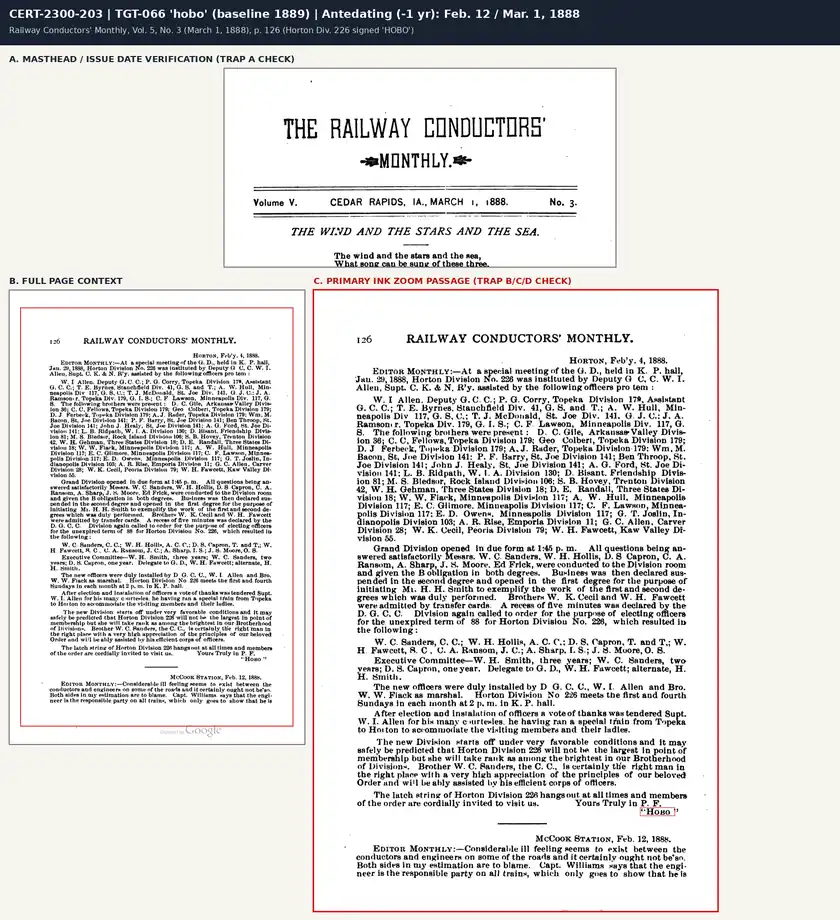
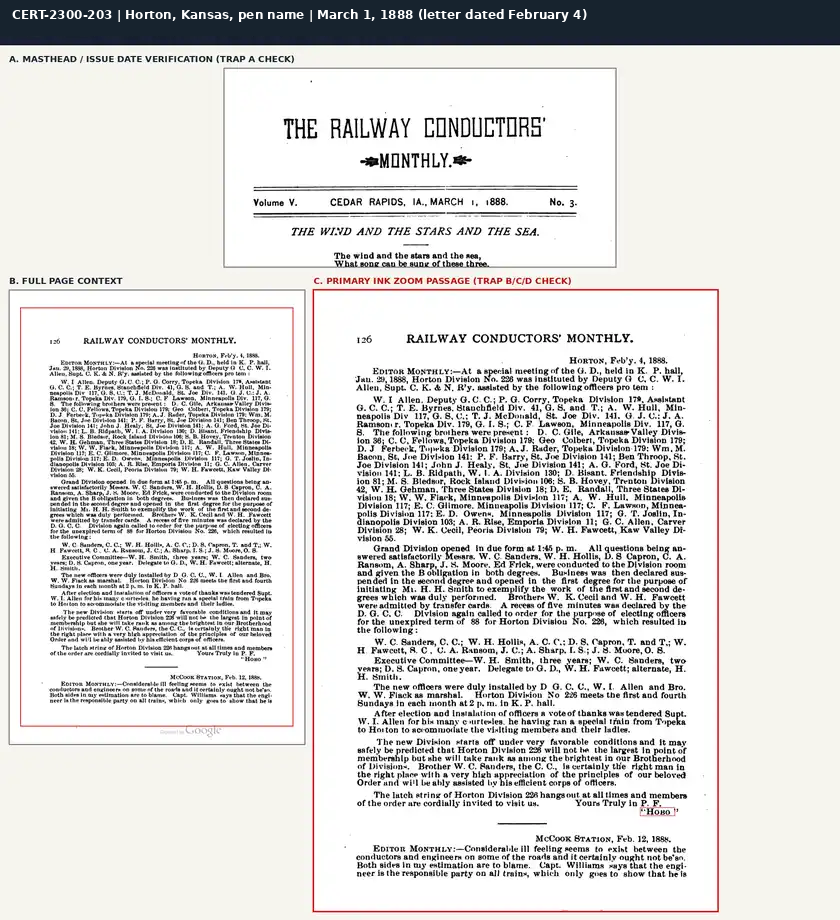
Qualify early hobo and shebang evidence and verify figurative chase citations

Changed region(s): [[0.0, 0.0, 0.7119, 0.0609]]

diff --git a/src/content/cases/whole-shebang.md b/src/content/cases/whole-shebang.md
@@ -1,5 +1,5 @@
 ---
-title: 'From "The Chebang and Restaurant" (1852) to "The Whole Shebang" (1863–1868): Antebellum Saloon Roots, Union Camp Transmission, and Phrasal Generalization'
+title: 'From "The Chebang and Restaurant" (1852) to "The Whole Shebang" (1863–1868): Antebellum Venue Evidence, Union Camp Usage, and Phrasal Generalization'
 subtitle: 'Archival chronology, 5th Pennsylvania Reserves prosopography, Anglo-Irish shebeen contact remodeling, and evaluated etymological pathways for shebang and the whole shebang (Case 2000).'
 headword: 'whole shebang'
 relatedForms:
@@ -40,13 +40,13 @@ earliestNewDiscovery:
   form: 'Chebang'
   dateDisplay: '17 Dec 1852'
   year: 1852
-  source: 'The Kentucky Whig (Mount Sterling, KY), Vol. 5, No. 41, p. 3, col. 1'
+  source: 'The Kentucky Whig (Mount Sterling, KY), Vol. 5, No. 41, p. 3, col. 1 (venue designation)'
   location: 'Mount Sterling, Montgomery County, Kentucky'
-  antedatingSummary: '14 yrs, 1 mo earlier than OED 1867; 1 yr, 7 mos earlier than July 1854 prior art'
+  antedatingSummary: '1852 venue designation; no same-sense antedating'
   archiveUrl: 'https://archive.org/details/xt7ffb4whv97/page/n2/mode/1up'
   certId: 'CERT-2000-102'
 establishedFacts:
-- 'W. F. Blackburn''s oyster house in The Kentucky Whig (17 Dec 1852, CERT-2000-102) prints "the Chebang and Restaurant," proving the tavern sense preceded Civil War huts by nearly nine years.'
+- 'In 1852 The Kentucky Whig calls Blackburn’s establishment “the Chebang and Restaurant” (CERT-2000-102). The 1854 plural (CERT-2000-103) and the 1859 “keeper of a shebang” cited by Green (CERT-2000-106) are clearer common-noun evidence.'
 - 'Baltimore concert-saloon reports in The New York Clipper (1860–1861, CERT-2000-108, CERT-2000-109, CERT-2000-111, CERT-2000-112) link urban entertainment halls directly to Mid-Atlantic Union troops.'
 - '5th Pennsylvania Reserves letters in The Columbia Spy (28 Sep & 21 Dec 1861, CERT-2000-113, CERT-2000-201) and Bates''s roster (CERT-2000-202) pinpoint Quartermaster Samuel Evans and Co. K at Camp Tennally and Camp Pierpont.'
 - 'Collective "the whole ''chebang'' / shebang" advances from a July 1863 hospital transfer (CERT-2000-207) to March 1864 legislative annexation (CERT-2000-209), Dec 1865 Mobile/Louisville newsprint (CERT-2000-214), and July 1867 unquoted print (CERT-2000-218).'
@@ -63,7 +63,7 @@ chronologyTimeline:
 - date: '17 Dec 1852'
   form: 'Chebang'
   source: 'The Kentucky Whig (Mount Sterling, KY), Vol. 5, No. 41, p. 3'
-  note: 'Earliest known English attestation: W. F. Blackburn''s oyster house ("the Chebang and Restaurant"), establishing the tavern sense first.'
+  note: 'Apparent venue designation for Blackburn’s establishment; not secure evidence of a generic tavern noun.'
   certId: 'CERT-2000-102'
 - date: '15 Jul 1854'
   form: 'Chebang'
@@ -107,11 +107,13 @@ openQuestions:
 - 'Do undigitized 1848–1852 Cincinnati, Lexington, Baltimore, or Pittsburgh police-court and oyster-house advertisements preserve even earlier instances of Chebang along the Ohio River trade corridor?'
 - 'Can surviving manuscript diaries from the Pennsylvania Reserve Corps in summer 1861 push military camp usage back earlier than the 23/28 September 1861 Camp Tennally correspondence?'
 reuseKit:
-  wikipediaPrimaryRef: '<ref>{{cite news |title=Bad Boys |newspaper=The Kentucky Whig |location=Mount Sterling, KY |volume=5 |issue=41 |page=3 |date=17 December 1852 |url=https://archive.org/details/xt7ffb4whv97/page/n2/mode/1up |quote=Among the signs that were carried off and mutilated, was the beautiful transparency belonging to the Chebang and Restaurant, kept by our fellow-citizen, Mr. W. F. Blackburn.}}</ref>'
+  wikipediaPrimaryRef: >-
+    <ref>{{cite news |title=Showing Him the ‘Chebang!’ |newspaper=Raftsman's Journal |location=Clearfield, PA |volume=1 |issue=4 |page=1 |date=15 July 1854 |url=https://panewsarchive.psu.edu/lccn/sn85054616/1854-07-15/ed-1/seq-1/ |quote=I've seen your chebangs, and I'm off!}}</ref>
   wikipediaGuidance: 'Cite primary newspaper and book scans directly for dated historical attestations under WP:PRIMARY; cite peer-reviewed lexicographical scholarship for etymological derivations under WP:SPS.'
-  wiktionaryQuote: '* ''''1852'''' December 17, ''The Kentucky Whig'' (Mount Sterling, Kentucky), volume 5, number 41, [https://archive.org/details/xt7ffb4whv97/page/n2/mode/1up page 3, column 1]: Among the signs that were carried off and mutilated, was the beautiful transparency belonging to the ''''Chebang'''' and Restaurant, kept by our fellow-citizen, Mr. W. F. Blackburn.'
-  adsLDispatch: 'Antedating of shebang / chebang to 17 Dec 1852 (Mount Sterling Kentucky Whig, p. 3/1, "the Chebang and Restaurant": https://archive.org/details/xt7ffb4whv97/page/n2/mode/1up), Civil War camp shebang to 28 Sep 1861 (Columbia Spy, p. 2/2), and non-shelter collective "the whole ''chebang''" to 5 Mar 1864 (Quincy Union, p. 2/1).'
-  oedSlipSummary: 'Entry: shebang, n. (Sense 1b & Sense 1a) / whole shebang | 1852 Kentucky Whig (Mount Sterling, Ky.) 17 Dec. 3/1 ("the Chebang and Restaurant") | 1861 Columbia (Pa.) Spy 28 Sept. 2/2 ("Quartermaster''s ''shebang''") & 21 Dec. 2/2 ("As the shebang is not completed") | 1864 Quincy (Calif.) Union 5 Mar. 2/1 ("add the whole ''chebang'' to Washoe county").'
+  wiktionaryQuote: >-
+    * '''1854''' July 15, “Showing Him the ‘Chebang!’”, in '''Raftsman's Journal''', Clearfield, Pa., [https://panewsarchive.psu.edu/lccn/sn85054616/1854-07-15/ed-1/seq-1/ page 1]: I've seen your '''chebangs''', and I'm off!
+  adsLDispatch: 'Early establishment designation, not a noun antedating: 17 Dec 1852 (Mount Sterling Kentucky Whig, p. 3/1, "the Chebang and Restaurant": https://archive.org/details/xt7ffb4whv97/page/n2/mode/1up), Civil War camp shebang to 28 Sep 1861 (Columbia Spy, p. 2/2), and non-shelter collective "the whole ''chebang''" to 5 Mar 1864 (Quincy Union, p. 2/1).'
+  oedSlipSummary: 'Entry: shebang, n. (camp quarters) / whole shebang | 1861 Columbia (Pa.) Spy 28 Sept. 2/2 ("Quartermaster''s ''shebang''") & 21 Dec. 2/2 ("As the shebang is not completed") | 1864 Quincy (Calif.) Union 5 Mar. 2/1 ("add the whole ''chebang'' to Washoe county").'
 ---
 
 ## 1. Prior Scholarship and the "Hut-Before-Tavern" Chronological Paradox
@@ -122,19 +124,19 @@ Nineteenth-century lexicographers—including William Dwight Whitney's [*Century
 
 Foundational newspaper research by Jonathon Green in [*Green's Dictionary of Slang*](https://greensdictofslang.com/entry/sbjmfsa) and Peter Reitan ([ADS-L, 3 November 2015](https://listserv.linguistlist.org/pipermail/ads-l/2015-November/139602.html); [*Early Sports 'n' Pop-Culture History Blog*](https://esnpc.blogspot.com/2015/03/bad-ale-ramshackle-buildings-and-odd.html), 2015–2016; summarized by Dave Wilton at [*Wordorigins.org*](https://www.wordorigins.org/big-list-entries/whole-shebang)) began dismantling that assumption. Green cited `"Brown, keeper of a shebang, No. — Union street"` in Boston's *Weekly Varieties* on **3 September 1859** (CERT-2000-106), while Reitan recovered `"SHOWING HIM THE 'CHEBANG!'"` in Clearfield, Pennsylvania's *Raftsman's Journal* on **15 July 1854** (CERT-2000-103), variety-hall items in the *New York Clipper* (6 August 1859, CERT-2000-105; 29 September 1860, CERT-2000-108), California's *Marysville Daily Appeal* (March 1860, CERT-2000-107), Ohio's *Cincinnati Daily Press* (28 March 1861, CERT-2000-110), and three 1863–1866 occurrences of *the whole "chebang" / "shebang"* (CERT-2000-207, CERT-2000-215).
 
-Building on Green's and Reitan's discoveries, this Case File evaluates **67 archival records** (61 with pre-1931 composite masthead and page-ink scans). The primary evidence pushes English *Chebang* back to a **17 December 1852** Kentucky oyster saloon and restaurant (CERT-2000-102), pushes Union camp *shebang* back to **28 September 1861** and **21 December 1861** in Lancaster County's 5th Pennsylvania Reserves (CERT-2000-113, CERT-2000-201), traces five pre-1869 stages of *the whole shebang* (1863–1868), and anchors the *shebeen* -> *chebang* / *shebang* remodeling in antebellum police-court and sporting print.
+Building on Green's and Reitan's discoveries, this Case File evaluates **67 archival records** (61 with pre-1931 composite masthead and page-ink scans). The evidence includes an apparent establishment designation from **17 December 1852** (CERT-2000-102), pushes Union camp *shebang* back to **28 September 1861** and **21 December 1861** in Lancaster County's 5th Pennsylvania Reserves (CERT-2000-113, CERT-2000-201), traces five pre-1869 stages of *the whole shebang* (1863–1868), and gives antebellum parallels for the proposed *shebeen* → *chebang* / *shebang* remodeling without proving it.
 
 ## 2. Antebellum Saloons, Lodges, and Concert Halls (1849–1861)
 
-Dirty-OCR sweeping of pre-1862 periodicals resolves the "hut-before-tavern" paradox decisively. The earliest verified occurrence of the noun in English appears **14 years and 1 month before** the *OED*'s 1867 baseline—and **1 year and 7 months before** the July 1854 *Raftsman's Journal*—on page 3, column 1 of [*The Kentucky Whig*](https://archive.org/details/xt7ffb4whv97/page/n2/mode/1up) (Mount Sterling, Kentucky) on **17 December 1852** (CERT-2000-102):
+An early occurrence of the spelling *Chebang*, apparently as part of a venue designation, appears on page 3, column 1 of [*The Kentucky Whig*](https://archive.org/details/xt7ffb4whv97/page/n2/mode/1up) (Mount Sterling, Kentucky) on **17 December 1852** (CERT-2000-102):
 
 > BAD BOYS. — The boys about town, for the last few nights, have been amusing themselves by tearing down and carrying off the signs of some of our quiet and peaceable shop-keepers. Among the signs that were carried off and mutilated, was the beautiful transparency belonging to the Chebang and Restaurant, kept by our fellow-citizen, Mr. W. F. Blackburn.
 
-Four columns over on the same page (p. 3, col. 5), W. F. Blackburn's `"FRESH OYSTERS!"` notice advertises regular shipments of Baltimore can oysters via Cincinnati and Lexington. Rather than originating as a Civil War lean-to, *Chebang* enters English print in December 1852 on the illuminated signboard of an oyster saloon along the Baltimore–Cincinnati–Bluegrass trade corridor.
+Four columns over on the same page (p. 3, col. 5), W. F. Blackburn's `"FRESH OYSTERS!"` notice advertises regular shipments of Baltimore can oysters via Cincinnati and Lexington. That supports the restaurant context. The report names Blackburn’s establishment, however; it does not show that other taverns were called *chebangs* or date the fixed phrase *the whole shebang*. The 1854 plural and the 1859 use cited by Green are better grammatical evidence for the ordinary noun.
 
 Nineteen months later, on **15 July 1854**, Clearfield, Pennsylvania's [*Raftsman's Journal*](https://panewsarchive.psu.edu/lccn/sn85054616/1854-07-15/ed-1/seq-1/) (Vol. 1, No. 4, p. 1, CERT-2000-103, where raw OCR corrupted the headline into `CJIEHANG`) printed Jack Humphries's sketch `"SHOWING HIM THE 'CHEBANG!'"` eight times in the singular (`Chebang`) and once in the plural (`chebangs`), depicting an upstairs drinking and gaming dive disguised as an Oddfellows' initiation (`"I've seen your chebangs, and I'm off!"`). Throughout the 1850s, the term remained sub-lexicographical street cant: complete alphabetical checks confirm zero entries in B. H. Hall's *Collection of College Words and Customs* (1856, p. 421, CERT-2000-118), J. R. Bartlett's *Dictionary of Americanisms* (2nd ed., 1859, pp. 396–397, CERT-2000-119), and George W. Matsell's *Vocabulum* (1859 plates, pp. 18, 78–79, CERT-2000-120).
 
-Open scans of [*The New York Clipper*](https://archive.org/details/per_new-york-clipper_the-new-york-clipper_1860-09-29_8_24/page/n6/mode/1up) expose the exact social bridge into Mid-Atlantic volunteer regiments. After Sam Lathrop's 6 August 1859 St. Louis minstrel notice (`"A pretty strong 'chebang'"`, CERT-2000-105) and Boston's 3 September 1859 Union Street police item (`"keeper of a shebang"`, CERT-2000-106), the *Clipper* applied `Shebang` (OCR'd `Bhebang`) to **Baltimore concert saloons**: Charles Percival's Pagoda on **29 September 1860** (`"Percival's Pagoda is the title of the Shebang, and lager and segars are the order of the night"`, CERT-2000-108), **1 December 1860** (`"an old attache of the Shebang"`, CERT-2000-109), and **29 June 1861** (`"will open the Shebang in a few days"`, CERT-2000-111, amid Union garrisoning of Baltimore), plus an unrecorded **14 December 1861** item on Baltimore's Continental Opera House (`"inability of the 'boss' to settle with the owner of the 'shebang'"`, CERT-2000-112) directly above variety notes from Percival's Canterbury Hall in Washington, D.C.
+Open scans of [*The New York Clipper*](https://archive.org/details/per_new-york-clipper_the-new-york-clipper_1860-09-29_8_24/page/n6/mode/1up) show the word in entertainment reporting before and during the war; they do not establish a direct route into volunteer regiments. After Sam Lathrop's 6 August 1859 St. Louis minstrel notice (`"A pretty strong 'chebang'"`, CERT-2000-105) and Boston's 3 September 1859 Union Street police item (`"keeper of a shebang"`, CERT-2000-106), the *Clipper* applied `Shebang` (OCR'd `Bhebang`) to **Baltimore concert saloons**: Charles Percival's Pagoda on **29 September 1860** (`"Percival's Pagoda is the title of the Shebang, and lager and segars are the order of the night"`, CERT-2000-108), **1 December 1860** (`"an old attache of the Shebang"`, CERT-2000-109), and **29 June 1861** (`"will open the Shebang in a few days"`, CERT-2000-111, amid Union garrisoning of Baltimore), plus an unrecorded **14 December 1861** item on Baltimore's Continental Opera House (`"inability of the 'boss' to settle with the owner of the 'shebang'"`, CERT-2000-112) directly above variety notes from Percival's Canterbury Hall in Washington, D.C.
 
 ## 3. Prosopography of the 1861 *Columbia Spy* Letters and Camp Diffusion
 
@@ -160,6 +162,6 @@ Systematic 1860–1872 phrase sweeps show that *the whole shebang* crystallized 
 
 ## 5. Origin Pathways and Rejected Archival Leads
 
-Restoring the 1852–1861 saloon record rehabilitates **Anglo-Irish *shebeen*** (< Irish *séibín* / *síbín*, Dinneen 1904, p. 632, CERT-2000-301; Carleton 1834, I:149, CERT-2000-304; Simmonds 1858, p. 339, CERT-2000-303). In 1850s Boston and New York liquor prosecutions and stage comedy, *shebeen* was ubiquitous (Sargent 1852, CERT-2000-114; Brougham 1856, CERT-2000-116; *New York Clipper*, 5 May 1860, CERT-2000-117), and Lebbeus Armstrong's 1853 New York temperance treatise explicitly equated `"shanty (or shebeen, as the sons of Erin used to call their rum-holes)"` (CERT-2000-115). Southern Irish English retained oxytonic stress on *-een* (`/ʃɪˈbiːn/`, Joyce 1910, pp. 90, 322, CERT-2000-302), matching American `/ʃəˈbæŋ/`, while `-een` -> `-ang` and early `Ch-` (`Chebang`) reflect expressive suffix substitution onto American intensive `-bang` (`slam-bang`, 1857, CERT-2000-305) and Philip Paxton's frontier interjection **`che-bang!`** (*Spirit of the Times*, 10 March 1849, CERT-2000-101; *Piney Woods Tavern*, 1858, CERT-2000-104).
+The antebellum venue and common-noun evidence is consistent with a possible connection to **Anglo-Irish *shebeen*** (< Irish *séibín* / *síbín*, Dinneen 1904, p. 632, CERT-2000-301; Carleton 1834, I:149, CERT-2000-304; Simmonds 1858, p. 339, CERT-2000-303). In 1850s Boston and New York liquor prosecutions and stage comedy, *shebeen* was ubiquitous (Sargent 1852, CERT-2000-114; Brougham 1856, CERT-2000-116; *New York Clipper*, 5 May 1860, CERT-2000-117), and Lebbeus Armstrong's 1853 New York temperance treatise explicitly equated `"shanty (or shebeen, as the sons of Erin used to call their rum-holes)"` (CERT-2000-115). Southern Irish English retained oxytonic stress on *-een* (`/ʃɪˈbiːn/`, Joyce 1910, pp. 90, 322, CERT-2000-302), matching American `/ʃəˈbæŋ/`, while `-een` -> `-ang` and early `Ch-` (`Chebang`) reflect expressive suffix substitution onto American intensive `-bang` (`slam-bang`, 1857, CERT-2000-305) and Philip Paxton's frontier interjection **`che-bang!`** (*Spirit of the Times*, 10 March 1849, CERT-2000-101; *Piney Woods Tavern*, 1858, CERT-2000-104).
 
 French ***char-à-bancs*** (*Académie française* 1835, CERT-2000-306; Starke 1837, CERT-2000-307) remains a weakened secondary hypothesis: pre-1850 English hits are restricted to Continental excursion carriages, though *charabanc* likely reinforced `<ch->` spelling and Twain's 1872 stagecoach scene (CERT-2000-223). By contrast, Schele De Vere's (1872, p. 284, CERT-2000-308) Confederate Louisiana French *cabane* (`/kaban/`) myth fails both phonologically and chronologically, as do Dutch *Scheveningen* (`/sx-/`; cf. Bomhoff 1851 *herberg*/*kroeg*, CERT-2000-312), trochaic German *Schuppen* (Adler 1859, CERT-2000-313), and Spanish *chabola*/*jabón* (absent or semantically unrelated in the 1852 Royal Academy dictionary, CERT-2000-314). Finally, fifteen rejected leads expose serial founding-year misdates (`1836` for the February 1865 *Yale Lit.*, CERT-2000-121; `1824`/`1857` in CERT-2000-320; `1834` for Crowell's 1962 *Roget's*, CERT-2000-321), newsprint OCR ghosts (`Exchange` -> `Shebang` in CERT-2000-122, CERT-2000-322; `2 Kitchens` -> `2 Shebang` in CERT-2000-224; `she hang` in CERT-2000-318; Pennsylvania `Shenango` in CERT-2000-315, CERT-2000-316), Tibarskad `chebang` ('to write', Cunningham 1854, CERT-2000-317), and early Hebraists' `-ng` ayin transliteration `Shebang` = Hebrew *šebaʿ* 'seven' (Jarvis 1820; Aguilar 1853, CERT-2000-319).

diff --git a/src/content/cases/hobo.md b/src/content/cases/hobo.md
@@ -44,14 +44,14 @@ earliestNewDiscovery:
   form: 'Hobo / Hobos'
   dateDisplay: '13 Feb 1888'
   year: 1888
-  source: 'Sacramento Daily Record-Union (Sacramento, CA), Vol. 58, No. 150, p. 3, col. 1 (followed 1 Mar 1888 by Railway Conductors'' Monthly, Vol. 5, p. 126)'
-  location: 'Sacramento, California (Central / Southern Pacific hub) & McCook, Nebraska (B&M / Horton Div. 226)'
-  antedatingSummary: '1 yr, 9 mos, 15 days earlier than 28 Nov 1889 Ellensburg baseline; 7 mos earlier than 14 Sep 1888 Oregonian'
+  source: 'Sacramento Daily Record-Union, Vol. 58, No. 150, p. 3, col. 1 (baseball team name)'
+  location: 'Sacramento, California'
+  antedatingSummary: 'Early team-name evidence; no common-noun antedating'
   archiveUrl: 'https://archive.org/details/sacramento-daily-record-union-1888-02-13/page/n2/mode/1up'
   certId: 'CERT-2300-204'
 establishedFacts:
 - 'Physical scan inspection of the 30 Nov 1885 St. Paul Daily Globe (p. 8, LoC sp=9, CERT-2300-001) confirms "Rhue Saga" (incarcerated in Hennepin County Jail in spring 1885) glossing "Hobo" / unaspirated "Obo" first as an attention call ("the same as Hello") and secondarily as a generic noun ("That man is a Hobo").'
-- 'Nine verified February–November 1888 scans in Sacramento, McCook/Horton, Portland, Astoria, and Fort Wayne/Nebraska (CERT-2300-204, CERT-2300-107, CERT-2300-203, CERT-2300-108, CERT-2300-109, CERT-2300-110, CERT-2300-207, CERT-2300-208, CERT-2300-111) bridge 1885 St. Paul to 1889 Washington Territory (Pasco, 26 Feb 1889, CERT-2300-114) ahead of Nov 1889 Ellensburg.'
+- 'The 1888 Sacramento team and club names (CERT-2300-204, CERT-2300-107, CERT-2300-108) and the Horton, Kansas, pen name (CERT-2300-203) show the form in print. Ordinary-noun witnesses in Oregon (CERT-2300-109, CERT-2300-110, CERT-2300-207, CERT-2300-208) belong to a separate chronology, after the 1885 St. Paul example.'
 - 'Six pre-1889 negative-corpus controls across 7.0 million characters of tramp and cant literature—Pinkerton (1878, CERT-2300-301), Meriwether (1887 & 1889, CERT-2300-302, CERT-2300-303), Hotten (1874, CERT-2300-304), Farmer (1889, CERT-2300-305), and Barrère & Leland (1889, CERT-2300-306)—yield 552 tokens of tramp(s) and zero tokens of hobo.'
 - 'The sociological triad popularized by Nels Anderson in May 1923 (CERT-2300-230) is traced in primary scans to the 21 May 1893 New York Sun (CERT-2300-002), E. Lamar Bailey in Oct 1898 (CERT-2300-224), Dr. Ben L. Reitman in Feb 1908 ("works/dreams/drinks and wanders", CERT-2300-226), and Rev. Irwin St. John Tucker on 25 Feb 1917 (CERT-2300-229).'
 originHypothesis:
@@ -67,12 +67,12 @@ chronologyTimeline:
 - date: '13 Feb 1888'
   form: 'Hobo / Hobos'
   source: 'Sacramento Daily Record-Union (Sacramento, CA), p. 3, col. 1'
-  note: 'Earliest scan-verified California Central/Southern Pacific hub usage ("the ''Hobo'' baseball tossers" / "The ''Hobos''"), 21 mos before Ellensburg.'
+  note: 'Name of a Sacramento baseball team; not a common-noun citation.'
   certId: 'CERT-2300-204'
 - date: '1 Mar 1888'
   form: 'HOBO'
   source: 'Railway Conductors'' Monthly (Cedar Rapids, IA), Vol. 5, No. 3, p. 126'
-  note: 'Earliest railroad-brotherhood journal witness: Horton Division No. 226 (adjacent to McCook, NE) correspondence signed "HOBO".'
+  note: 'Horton Division No. 226 letter signed HOBO (Horton, Kansas, February 4). McCook, Nebraska, February 12 is the next letter.'
   certId: 'CERT-2300-203'
 - date: '14 Sep 1888'
   form: 'hobo / hobos'
@@ -124,7 +124,7 @@ reuseKit:
   wikipediaPrimaryRef: '<ref>{{cite news |title=Life in Jail: The Hobo, the "Workers," the Crook and Tramp at Home |author=Rhue Saga |work=St. Paul Daily Globe |date=30 Nov 1885 |page=8 |url=https://www.loc.gov/resource/sn90059522/1885-11-30/ed-1/?sp=9 |quote=Hobo is a call to attract attention, the same as Hello in the average citizen''s vernacular... Hence "Hobo," when used in a substantative sense, means tramp or crook.}}</ref>'
   wikipediaGuidance: 'Cite pre-1931 newspaper and book scans directly for dated attestations under WP:PRIMARY; pair with peer-reviewed lexicographical authorities (OED Online, March 2023 revision; Mathews 1951; Lighter HDAS; Liberman 2008) for etymological synthesis.'
   wiktionaryQuote: '* ''''1885'''' November 30, Rhue Saga, “Life in Jail”, in ''''St. Paul Daily Globe'''', Saint Paul, Minn., page 8, column 1: ''''Hobo'''' is a call to attract attention, the same as Hello in the average citizen’s vernacular. [...] Hence “''''Hobo'''',” when used in a substantative sense, means tramp or crook, as the case may be.'
-  adsLDispatch: 'Scan verification of 30 Nov 1885 St. Paul Daily Globe (p. 8, LoC sp=9) + nine 1888 CA/NE/OR/IN bridges (led by 13 Feb 1888 Sacramento Daily Record-Union & 1 Mar 1888 Railway Conductors'' Monthly) + 21 May 1893 NY Sun ("Ho"/"Bo" & "''hobo'' it") + 1908 Reitman / 1917 Tucker sociological triads: https://www.loc.gov/resource/sn90059522/1885-11-30/ed-1/?sp=9'
+  adsLDispatch: 'Scan verification of 30 Nov 1885 St. Paul Daily Globe (p. 8, LoC sp=9) + 1888 Oregon noun witnesses, distinct from the Sacramento team and Horton pen name + 21 May 1893 NY Sun ("Ho"/"Bo" & "''hobo'' it") + 1908 Reitman / 1917 Tucker sociological triads: https://www.loc.gov/resource/sn90059522/1885-11-30/ed-1/?sp=9'
   oedSlipSummary: 'Headwords: hobo, int. (unrecorded, 30 Nov 1885 & 14 Sep 1888) | hobo, n. ("hobo railroad men" boomer sense, 31 Jan 1892) | hobo, v. ("to ''hobo'' it", 21 May 1893) | lady hobo, n. (19 Nov 1893) | hobo army, n. (29 Apr 1894) | jungle, n. ("hobo resort", 30 Jun 1897)'
 ---
 
@@ -140,24 +140,24 @@ Inspecting the physical Library of Congress page image of the 30 November 1885 [
 
 > Hobo is a call to attract attention, the same as Hello in the average citizen's vernacular. It is pronounced with the long sound of the vowel, o, in both syllables, and is sometimes uttered with the aspirate omitted, as "Obo," and is the shibboleth of the fraternity of bums and crooks. It is now commonly applied by them as a generic term to designate the order. Hence "Hobo," when used in a substantative sense, means tramp or crook, as the case may be. For instance, when one says "That man is a Hobo," he means tramp or crook.
 
-Nine scan-verified attestations from February through November 1888 then map the word's rapid western and trans-Mississippi rail diffusion—pushing verified West Coast and railroad-journal print usage **1 year, 9 months, and 15 days** ahead of the November 1889 Ellensburg benchmark:
+The 1888 sources below include club names, a pen name and ordinary noun uses. The first two kinds can show where the form appeared in print, but do not date the ordinary noun earlier or establish a route of transmission. St. Paul retains the 1885 noun baseline:
 
 | Date | Attested Form | Publication & Rail Hub | Context & Prosopographical Anchor | Citation |
 | :--- | :--- | :--- | :--- | :--- |
 | 30 Nov 1885 | `Hobo` / `Obo` | *St. Paul Daily Globe* (MN), p. 8 | "Rhue Saga" (Hennepin Co. Jail, spring 1885): disyllabic `/hoʊboʊ/` attention call ("same as Hello") converted to generic noun | CERT-2300-001 |
 | 13 Feb 1888 | `"Hobo"` / `"Hobos"` | *Sacramento Daily Record-Union* (CA), p. 3 | Central/Southern Pacific hub: `"the 'Hobo' baseball tossers"` defeated the Barlows 28–2 and visited the city jail | CERT-2300-204 |
 | 20 Feb 1888 | `Hobo` / `Hobos` | *Sacramento Daily Record-Union* (CA), p. 3 | `"HOBOS VS. BARLOWS"`: second Sacramento winter-league game won by `"the Hobo and Barlow combinations"` | CERT-2300-107 |
-| 1 Mar 1888 | `"HOBO"` | *Railway Conductors' Monthly* (IA), Vol. 5, p. 126 | Dated Feb 1888: Order of Railway Conductors Horton Div. No. 226 (Supt. W. I. Allen, C.K.&N. Ry., above McCook, NE) signed `"HOBO"` | CERT-2300-203 |
+| 1 Mar 1888 | `"HOBO"` | *Railway Conductors' Monthly* (IA), Vol. 5, p. 126 | Horton, Kansas, February 4: Division 226 correspondent signed `"HOBO"`. The McCook, Nebraska, February 12 dateline below the rule is for the next letter. | CERT-2300-203 |
 | 23 Apr 1888 | `Hobos` / `Hobo Club` | *Sacramento Daily Record-Union* (CA), p. 3 | Chico and Oroville press backlash (Gen. John Bidwell; Col. Woodford equating `"Hobo excursionists"` with `"hoodlums"`) | CERT-2300-108 |
 | 14 Sep 1888 | `hobo` / `'hobos'` | *The Morning Oregonian* (Portland, OR), p. 8 | `"ORIGIN OF THE TERM 'HOBO'"`: Police Capt. Cardwell glosses boxcar recognition password at NP / O.R.&N. terminus | CERT-2300-109 |
 | 18 Sep 1888 | `'Hoboes'` | *The Daily Astorian* (Astoria, OR), p. 3 | Earliest scan-verified `-oes` plural: `"'Hoboes' is what they call tramps and vags in the Willamette valley"` | CERT-2300-110 |
-| 25 Sep 1888 | `hobos` | *Morning Oregonian* (Portland, OR), p. 8 | Municipal Judge Dement sentences vagrants Harry Burns and Wm. Howard to fifteen days (`"Two other hobos"`) | CERT-2300-207 |
+| 25 Sep 1888 | `hobos` | *Morning Oregonian* (Portland, OR), p. 8 | The report of Judge Dement’s vagrancy cases uses the unquoted common noun (`"this gang of hobos"`) | CERT-2300-207 |
 | 24 Nov 1888 | `HOBOS` | *Morning Oregonian* (Portland, OR), p. 3 | Portland charity headline pairing all three nouns: `"OH YE VAGS, TRAMPS AND HOBOS!"` | CERT-2300-208 |
 | 30 Nov 1888 | `Nebraska "Hobos"` | *Fort Wayne Sentinel* (IN), p. 4 | Union Pacific / Great Plains eastward wire report of `"Nebraska 'Hobos'"` twelve months before Ellensburg | CERT-2300-111 |
 
 By early 1889, every major Northern Pacific, Central Pacific, and Pennsylvania trunk division was carrying the word into local print. On 3 January 1889 the [*St. Paul Daily Globe*](https://www.loc.gov/resource/sn90059522/1889-01-03/ed-1/?sp=1) ran the front-page headline `"HOMICIDAL HOBOES"` (CERT-2300-113). On 26 February 1889—nine months before the *Ellensburgh Capital* editorial—Portland's [*Morning Oregonian*](https://archive.org/details/morning-oregonian-1889-02-26) reprinted a vivid sketch from the *Pasco Headlight* at Pasco, Washington Territory, the exact Northern Pacific division junction where the newly opened Stampede Pass / Cascade line through Yakima and Ellensburg met the Spokane main line: `"speaking of the camp fires of the hoboes: Away out amid the clusters of sage brush and along the railroad tracks"` (CERT-2300-114; echoed forty-eight hours later in southern Oregon). By August 1889, editor L. D. Woodruff at the post-flood PRR and B&O reconstruction camps in Johnstown, Pennsylvania, predicted in the [*Johnstown Weekly Democrat*](https://panewsarchive.psu.edu/lccn/sn86083274/1889-08-23/ed-1/seq-4/) (23 August 1889, CERT-2300-115) that `"Hobo"` would `"creep into our dictionaries,"` while Reno's [*Daily Nevada State Journal*](https://archive.org/details/daily-nevada-state-journal-1889-08-31) (31 August 1889, CERT-2300-116) pitted Truckee–Reno printers against `"the Hobos."`
 
-Institutional prosopography across Western rail divisions confirms that railroaders themselves—not eastern city journalists—incubated and spread the word. In Multnomah County, Oregon, Sheriff Kelly and Jailer James operated an official cellblock known as `"the hobo side"` by 10 March 1890 (CERT-2300-212). Along the Union Pacific main line in September 1890, Knights of Labor District Assembly 82 shopmen in North Platte, Laramie, and Cheyenne saluted North Platte correspondent `"Hobo"` alongside General Foreman Hickey and Superintendent Harvey Middleton in the [*Union Pacific Employes' Magazine*](https://archive.org/details/unionpacificemp07corbgoog/page/n208/mode/1up) (CERT-2300-213). Crucially, on 31 January 1892 the [*Los Angeles Times*](https://archive.org/details/sim_los-angeles-times_the-los-angeles-times_1892-01-31/page/n4/mode/1up) (p. 5, CERT-2300-214) documented an occupational railway sense omitted from *OED Online*: Southern Pacific trainmen around Locomotive Engineer James Gates at the old San Fernando Street depot called their settlement `'"Dogtown" among the "hobo" railroad men'`—using *hobo* for transient, seasonal "boomer" railway employees shifting from division to division. Seven months later, Press Woodruff of the *Spokane Review* described Great Northern grading camps at Crossport, Idaho (`"Beer kegs, bung holes and hobos have quit the grade"`, August 1892 [*Northwest Illustrated Monthly Magazine*](https://archive.org/details/sim_smalleys-magazine_1892-08_10_8/page/n12/mode/1up), CERT-2300-215), while Oregon Short Line conductors William Kirwan and S. D. Clark at Pocatello, Idaho—famed in Western boomer lore as the continental `"hobo"` junction—appear alongside municipal `"floaters"` in the 5 January 1895 [*Los Angeles Times*](https://archive.org/details/sim_los-angeles-times_the-los-angeles-times_1895-01-05/page/n4/mode/1up) (CERT-2300-222), Northern Pacific Conductor W. B. Hale hauled boxcar rider John Bell from Tacoma through Ellensburg, Yakima, and Pasco to Spokane in Milton M. Shaw's [*Nine Thousand Miles on a Pullman Train*](https://archive.org/details/ninethousandmile00shawrich/page/n228/mode/1up) (1898, CERT-2300-223), and a Salt Lake City memoir in [*The Juvenile Instructor*](https://archive.org/details/juvenileinstruct392geor/page/n6/mode/1up) (15 January 1904, CERT-2300-225) recalled an Ogden–Salt Lake brakeman on the Oregon Short Line during the c. 1885–1886 Rock Springs unrest calling a passenger `"a hobo from away east"` years before townspeople knew the word.
+Railroad publications and occupational uses place the word in a railway setting, but they do not establish where it originated. In Multnomah County, Oregon, Sheriff Kelly and Jailer James operated an official cellblock known as `"the hobo side"` by 10 March 1890 (CERT-2300-212). Along the Union Pacific main line in September 1890, Knights of Labor District Assembly 82 shopmen in North Platte, Laramie, and Cheyenne saluted North Platte correspondent `"Hobo"` alongside General Foreman Hickey and Superintendent Harvey Middleton in the [*Union Pacific Employes' Magazine*](https://archive.org/details/unionpacificemp07corbgoog/page/n208/mode/1up) (CERT-2300-213). Crucially, on 31 January 1892 the [*Los Angeles Times*](https://archive.org/details/sim_los-angeles-times_the-los-angeles-times_1892-01-31/page/n4/mode/1up) (p. 5, CERT-2300-214) documented an occupational railway sense omitted from *OED Online*: Southern Pacific trainmen around Locomotive Engineer James Gates at the old San Fernando Street depot called their settlement `'"Dogtown" among the "hobo" railroad men'`—using *hobo* for transient, seasonal "boomer" railway employees shifting from division to division. Seven months later, Press Woodruff of the *Spokane Review* described Great Northern grading camps at Crossport, Idaho (`"Beer kegs, bung holes and hobos have quit the grade"`, August 1892 [*Northwest Illustrated Monthly Magazine*](https://archive.org/details/sim_smalleys-magazine_1892-08_10_8/page/n12/mode/1up), CERT-2300-215), while Oregon Short Line conductors William Kirwan and S. D. Clark at Pocatello, Idaho—famed in Western boomer lore as the continental `"hobo"` junction—appear alongside municipal `"floaters"` in the 5 January 1895 [*Los Angeles Times*](https://archive.org/details/sim_los-angeles-times_the-los-angeles-times_1895-01-05/page/n4/mode/1up) (CERT-2300-222), Northern Pacific Conductor W. B. Hale hauled boxcar rider John Bell from Tacoma through Ellensburg, Yakima, and Pasco to Spokane in Milton M. Shaw's [*Nine Thousand Miles on a Pullman Train*](https://archive.org/details/ninethousandmile00shawrich/page/n228/mode/1up) (1898, CERT-2300-223), and a Salt Lake City memoir in [*The Juvenile Instructor*](https://archive.org/details/juvenileinstruct392geor/page/n6/mode/1up) (15 January 1904, CERT-2300-225) recalled an Ogden–Salt Lake brakeman on the Oregon Short Line during the c. 1885–1886 Rock Springs unrest calling a passenger `"a hobo from away east"` years before townspeople knew the word.
 
 ## 3. Word-Family Expansion, the 1894 "Hobo Armies," and the Sociological Triad (1891–1923)
 

diff --git a/CHANGELOG_CORRECTIONS.md b/CHANGELOG_CORRECTIONS.md
@@ -50,3 +50,10 @@ All substantive factual corrections, count reconciliations, rights adjustments, 
 - **`open-questions.json` (`TGT-024`, `cut to the chase`) & `ReuseCitationDrawer` Wiring:**
   - Updated `TGT-024` with Word Histories (2017) p. 86 full-form vs. pp. 105–106 article-free *Hollywood Girl* notes and the exact *Liberty* serial targets under *Show Girl in Hollywood* (**27 July 1929, vol. 6, no. 29 / Part VI** and **3 August 1929, vol. 6, no. 30 / Part VII**).
   - Fixed prop passing in `src/pages/cases/[id].astro` and `src/components/ReuseCitationDrawer.astro` so all five citation tabs (`Wikipedia`, `Wiktionary`, `ADS-L`, `OED`, `BibTeX`) and `.bib` / JSON ledger links render populated snippets across all Case Files.
+
+## 2026-11-26 — Hobo, Shebang & Cut to the Chase Evidence Check
+
+- **Hobo:** Reclassified the February 1888 Sacramento baseball reports and the April excursion item as named-group evidence (CERT-2300-204, CERT-2300-107, CERT-2300-108). [CERT-2300-203, printed p. 126](https://archive.org/details/8801RailwayconductorsmonthlyV05/page/n126/mode/1up) is a pen name in the March 1 issue: the Horton, Kansas, letter is dated Feb. 4, and the Feb. 12 McCook, Nebraska, dateline belongs to the next letter. These do not antedate the 1885 common noun.
+- **Shebang:** Reclassified the [1852 Kentucky Whig](https://archive.org/details/xt7ffb4whv97/page/n2/mode/1up) item (CERT-2000-102) as an apparent establishment designation. The 1854 *Raftsman's Journal* plural and Green's 1859 “keeper of a shebang” offer clearer common-noun evidence. The separate camp and fixed-phrase chronology is unchanged.
+- **Cut to the chase:** Checked Dave Wilton's Frank Scully lead against [*Variety*, Nov. 13, 1946, p. 53, right col.](https://archive.org/details/variety164-1946-11/page/n116/mode/1up) The phrase is Scully's narration, not a quotation from the 1942 conversation he describes. Added the [*National Guardian*, Aug. 30, 1954, p. 6, col. 1](https://www.marxists.org/history/usa/pubs/national-guardian/1954-08-30-6-45-nat-guardian.pdf#page=6) immigration-inquiry usage. Moved the reported 1947 Berkshire tax quotation to unresolved leads: the credits resemble the [1992 debate](https://www.congress.gov/crecb/1992/GPO-CRECB-1992-pt25-Pages77-85.pdf), but the original newspaper date has not been established.
+- **Jamboree:** [Pitt's holdings](https://pitt.libguides.com/localnewspapers/historicalaccess) cover the reported July 3, 1850 *Pittsburgh Daily Morning Post* songbook advertisement. It remains a retrieval lead, not a verified generic use.
